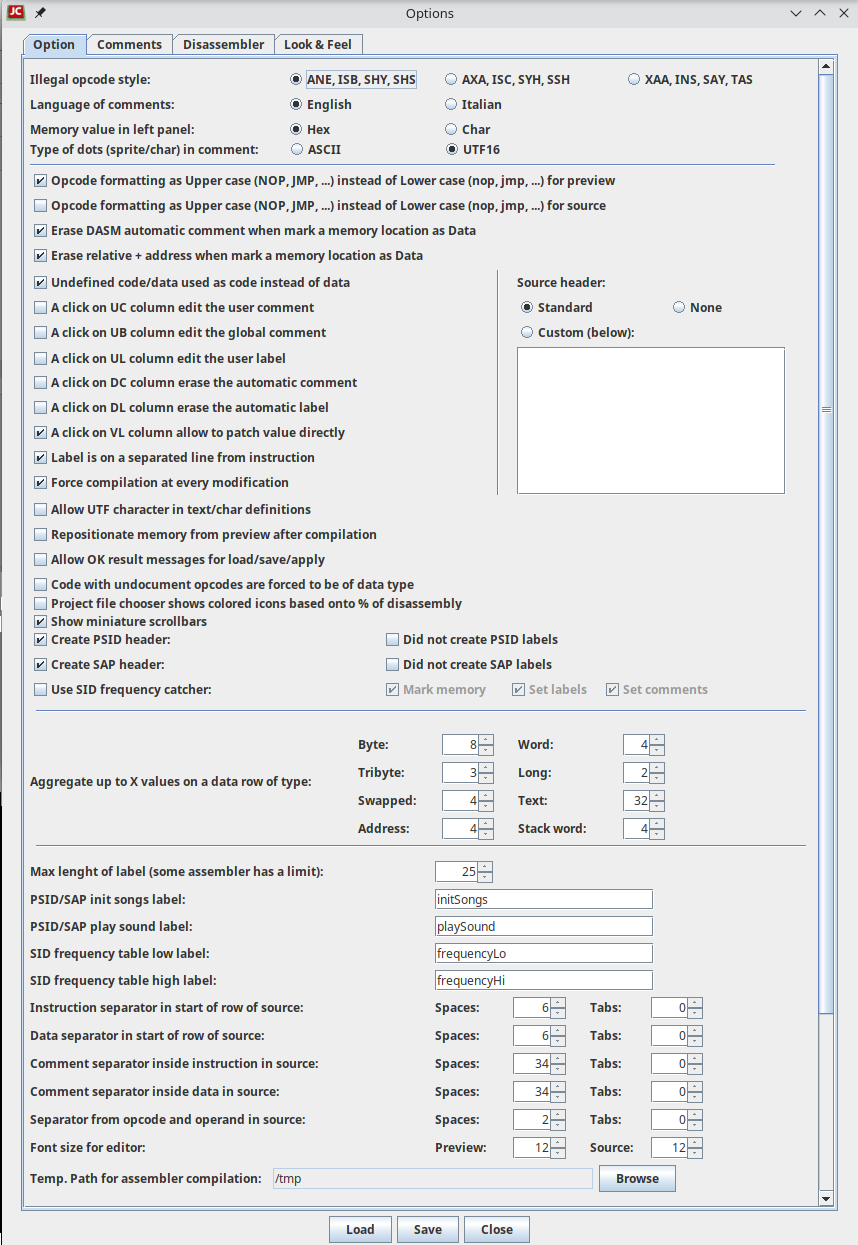
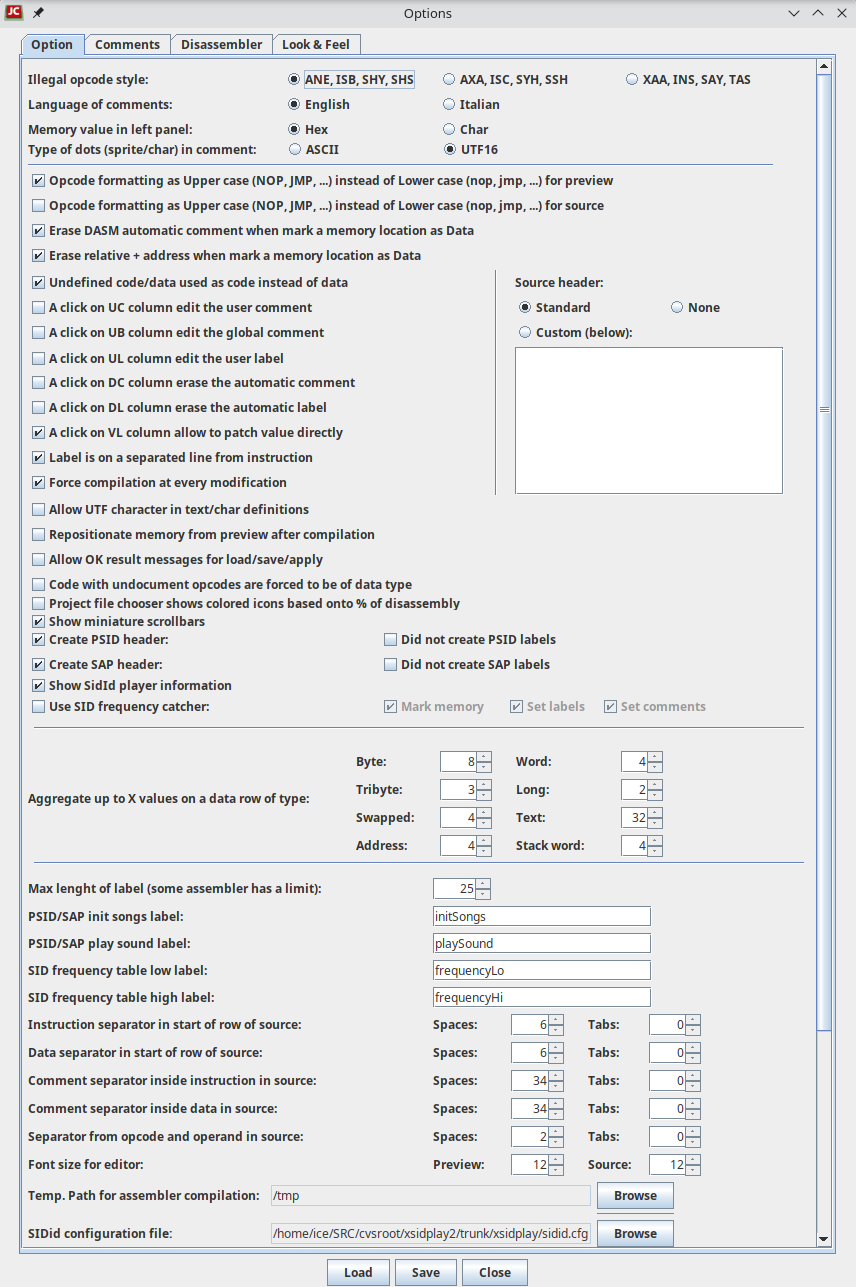
Complete the help

diff --git a/src/sw_emulator/swing/help/option.html b/src/sw_emulator/swing/help/option.html
@@ -26,7 +26,7 @@
   <li><b>Language of comments</b>: automatic comments added by disassembler engine can be in English or Italian</li>
   <li><b>Memory value in left panel</b>: select the format from exadecimal or char for the value in the merory panel table</li>
   <li><b>Type of dots (sprite/char) in comment:</b> select to use ASCII chars or UTF16 chars for dots of sprites/chars used in comment to show the outfit<br>
-       <img src="./option23.png"></p>  
+       <img src="./option23.png"> 
   </li>
   <li><b>Opcode formatting as Upper case (NOP, JMP, ...) insteas of Lower case (nop, jmp, ...) for preview</b>: in preview of source uses upper or lower text case formatting</li>
   <li><b>Opcode formatting as Upper case (NOP, JMP, ...) insteas of Lower case (nop, jmp, ...) for source</b>: in source uses upper or lower text case formatting</li>
@@ -47,6 +47,7 @@
   <li><b>Code with undocument opcodes are forced to be of data type</b>: automatically force code to be data to avoid the use of illegal opcodes</li>
   <li><b>Show miniature scrollbars</b>: use a right miniature of the source dor better slelecting area</li>
   <li><b>Project file chooser shows colored icons based onto % of disassembly</b>: this slow down the file opening when there are manu files in the directory, but the colored icons gives an idea of percentual of disassembly (it is not precise for being quick)</li>
+  <li><b>Show SIDid player information</b>: use the Sidid.cfg for showing the player if it is recognized</li>
   <li><b>Create PSID header:</b> create values in source for regenerating the binary as a PSID file and not PRG for tune. 
       <ul>
           <li><b>Did not create PSID labels:</b> not generate the automatic labels for PSID init and play addresses.</li>
@@ -95,6 +96,7 @@
   <li><b>Separator from opcode and operand in source:</b> select how many spaces/tabs you want to separate opcode and operand. Due to the different length of opcode in processors, with 1 or 2 spaces it can break the aligment. Optimal minimal is 2 for M6502 and 3 for Z80.</li>
   <li><b>Font size for editor:</b> select the font size for preview and source text.</li>
   <li><b>Temp path for assembler compilation:</b> a path used for generating the binary of assembler. The best way is to use a memory drive (/tmp in most of Linux ditribution for example) as the generated files are to be considearte temporary</li>
+  <li><b>SIDid configuration file:</b> the path to the Sidiid.cfg file used by SIDid program to determine the player</li>
  </ul>
  The disassembler engine used the SidFreq class implemented in XSidplay2 for detecting the A4 frequency that a tune is playing by searching in memory for the low and high part of table frequency of the octaves the SID can play.<br>
  Where such area is find, it will be marked ad data kind and the label for low and high position are generated as user label and a comment is added for giving the A4 frequency information<br>

diff --git a/src/sw_emulator/swing/help/memory.html b/src/sw_emulator/swing/help/memory.html
@@ -204,11 +204,26 @@
    <p>This declare the selected couple of bytes as #&lt; #&gt; of the address formed by his low/high value</p>
  
    <h2>Assign the 2 tables as #&gt; #&lt;</h2>
-   <p>This open a dialog that ask for starting and ending position of low addresses and the starting and ending position of high address. 
-   Then it automatically assign the correct values in the two tables as a memory word pointer.
-   </p>
    
-  <p align="center"><img src="./memory17.png"></p> 
+   <p align="center"><img src="./memory17.png"></p> 
+   
+   <p>This open a dialog that has three parts:</p>
+    <ol>   
+       <li>Automatic assign of low/high pointers from two tables. The first table is done by selecting <i>Starting of low values</i> and 
+           <i>Ending of low values</i>, the second by <i>Starting of high value</i> and <i>Ending of high value</i>. Pressing the OK button, 
+           then it automatically assign the correct values in the two tables as a memory word pointer.
+       </li>
+       <li>This allow to generate the low/high address from low and high table of a given size, and generate the label automatically (using <i>Start</i> prefix and a number of numeric <i>Digit</i>)           
+       </li>
+       <li>Assign #&lt; #&gt; related relative address. This fuction operated to the selected memory area and assume that you are selecting couples of low and high memory pointes.<br>
+           It ask for the <i>Base (real) address</i> and for the <i>Destination address</i>. This is for mapping some relative memory pointes to an area that will be relocated before use it.<br>
+           So, for example, the reference to <i>t1Patt05</i> that is relative to <i>t1Patt00</i> in the declaration of it (left panel in the image), is instead refetenced to <i>dataBuffer</i> when used at run-time (right panel in the image)
+       </li>
+    </ol>     
+   
+   <p align="center"><img src="./memory20.png"></p> 
+   
+   <p>The first tow functions are bettere replaced by the Wizard that allow to see the result in real-time before apply it.</p>
   
    <h2>Assign the 2 selected addresss as #&gt; #&lt;</h2>
    <p>This declare the selected couple of bytes as #&gt; #&lt; of the address formed by his high/low value</p>
